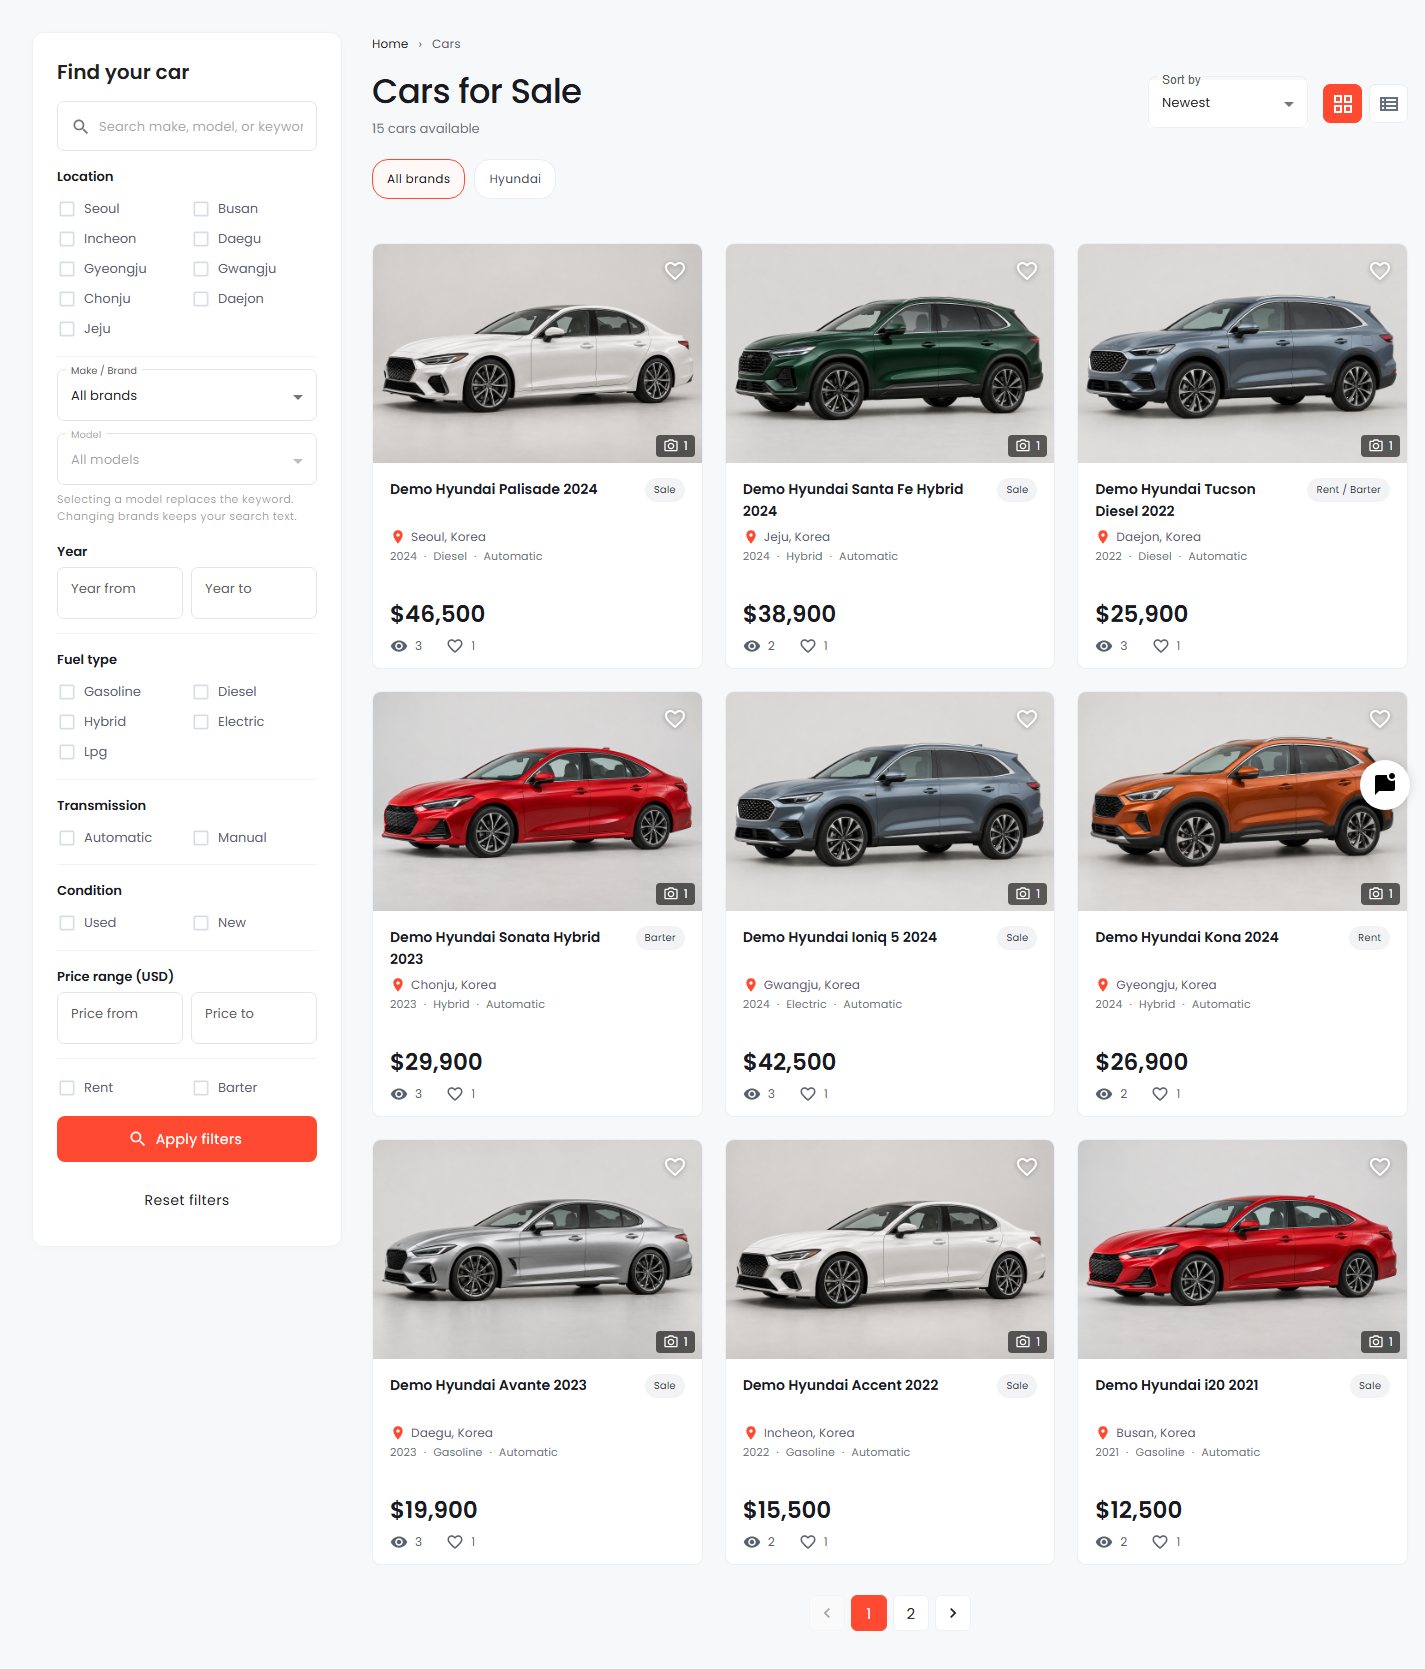
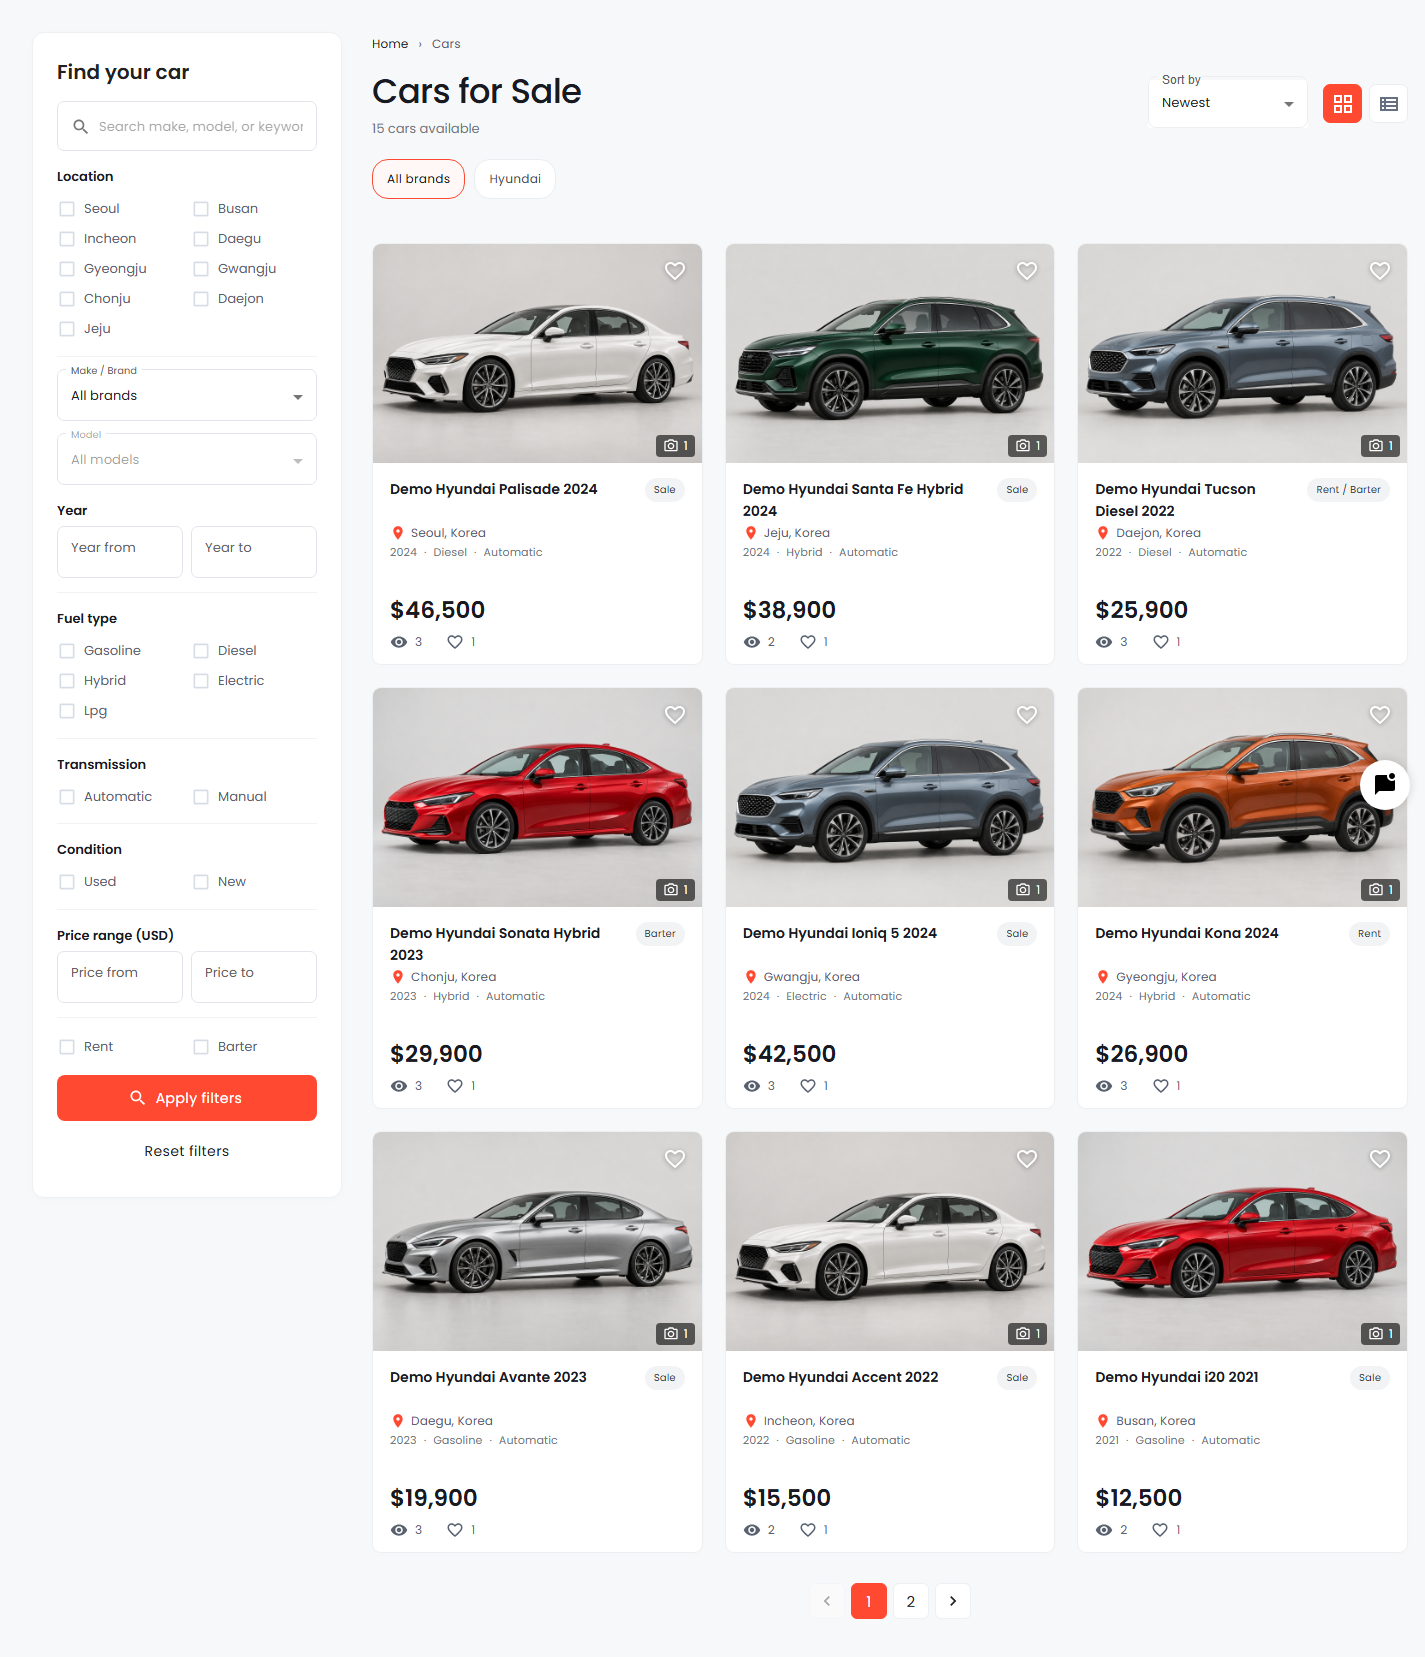
fix: improve cars listing spacing and model helper text

diff --git a/libs/components/car/BrowseSearchFields.tsx b/libs/components/car/BrowseSearchFields.tsx
@@ -198,7 +198,11 @@ export default function BrowseSearchFields({ search, onChange, ranges, onRangesC
 				size="small"
 				value={selectedModel}
 				disabled={!search.brandIds?.length || modelsLoading || Boolean(modelError)}
-				helperText={t('Selecting a model replaces the keyword. Changing brands keeps your search text.')}
+				helperText={
+					text.trim() && !selectedModel && models.length > 0
+						? t('Choosing a model replaces your search.')
+						: undefined
+				}
 				onChange={(e) => {
 					if (e.target.value || selectedModel) onTextChange(e.target.value);
 				}}

diff --git a/scss/pc/car/browse.scss b/scss/pc/car/browse.scss
@@ -276,7 +276,7 @@
 		align-items: flex-start;
 		justify-content: space-between;
 		gap: 9px;
-		margin-bottom: 7px;
+		margin-bottom: 3px;
 		min-height: 44px;
 		a {
 			min-width: 0;
@@ -539,6 +539,9 @@
 #car-list-page,
 .cars-filter-drawer {
 	.cars-browse-filter {
+		> button[data-action='reset'] {
+			margin-top: 8px;
+		}
 		.MuiInputBase-root {
 			font-family: $font;
 			font-size: 13px;

diff --git a/docs/CARS_BROWSE_UI.md b/docs/CARS_BROWSE_UI.md
@@ -26,3 +26,10 @@ Files refined: `pages/car/index.tsx`, `libs/components/car/{Filter,BrowseSearchF
 Validation passed: phase typechecks; final production build (91 localized pages); lint (existing warnings, no errors); migration/auth/translation tests; comparison/restoration tests; helper tests and read-only live GraphQL inclusive-range/one-sided-bound checks; `git diff --check`. The final full browser suite passed at 320/390/768/1024/1440px and EN/KR/RU, covering responsive card heights/bounds, grid/list, model/location/reset, keyword drafts across brand chips, range validation, refresh, Back/Forward, page scroll, escaped keyword/empty/Clear Filters (including unapplied drafts for unavailable URL brands), delayed loading, outage/retry and drawer accessibility. Earlier runs timed out on intermittent local GraphQL requests and encountered canceled CDP interceptions. The isolated QA profile uses fresh localhost connections and ignores only already-canceled interception IDs; no app transport changes were made. The final run completed successfully in 107.54 seconds, and the subsequent production build passed.
 
 Limitations: model suggestions are not a complete catalog or independent model filter. Authenticated favorite persistence was not exercised to avoid changing existing records. Existing repository lint warnings remain. Navbar, hero, homepage, footer, backend source/contracts, existing car images and demo records were preserved. No dependencies, commit or deployment.
+
+## Small spacing and copy follow-up - 2026-10-10
+
+- Replaced the permanent model explanation with a shorter localized reminder, shown only when a keyword is present, is not the selected model, and model choices are available. Model/keyword filtering behavior is unchanged.
+- Reduced browse card title-to-location margin from 7px to 3px, retaining the two-line title reservation and equal card heights. Reduced Apply/Reset spacing from 16px to 8px in both sidebar and drawer.
+- Modified `BrowseSearchFields.tsx`, scoped `browse.scss` and one label in each EN/KR/RU locale. Refreshed the three browse previews; desktop preview reviewed.
+- Yarn typecheck, lint (existing warnings/no errors), production build (91 pages), full responsive/localized browser regressions and whitespace checks passed. The first browser attempt encountered duplicate same-project dev servers sharing a cache; restarted them as one healthy server on port 3000, then the full QA passed in 53.19 seconds. No backend, shared card, navbar, footer, images or records changed; no commit/deployment.
